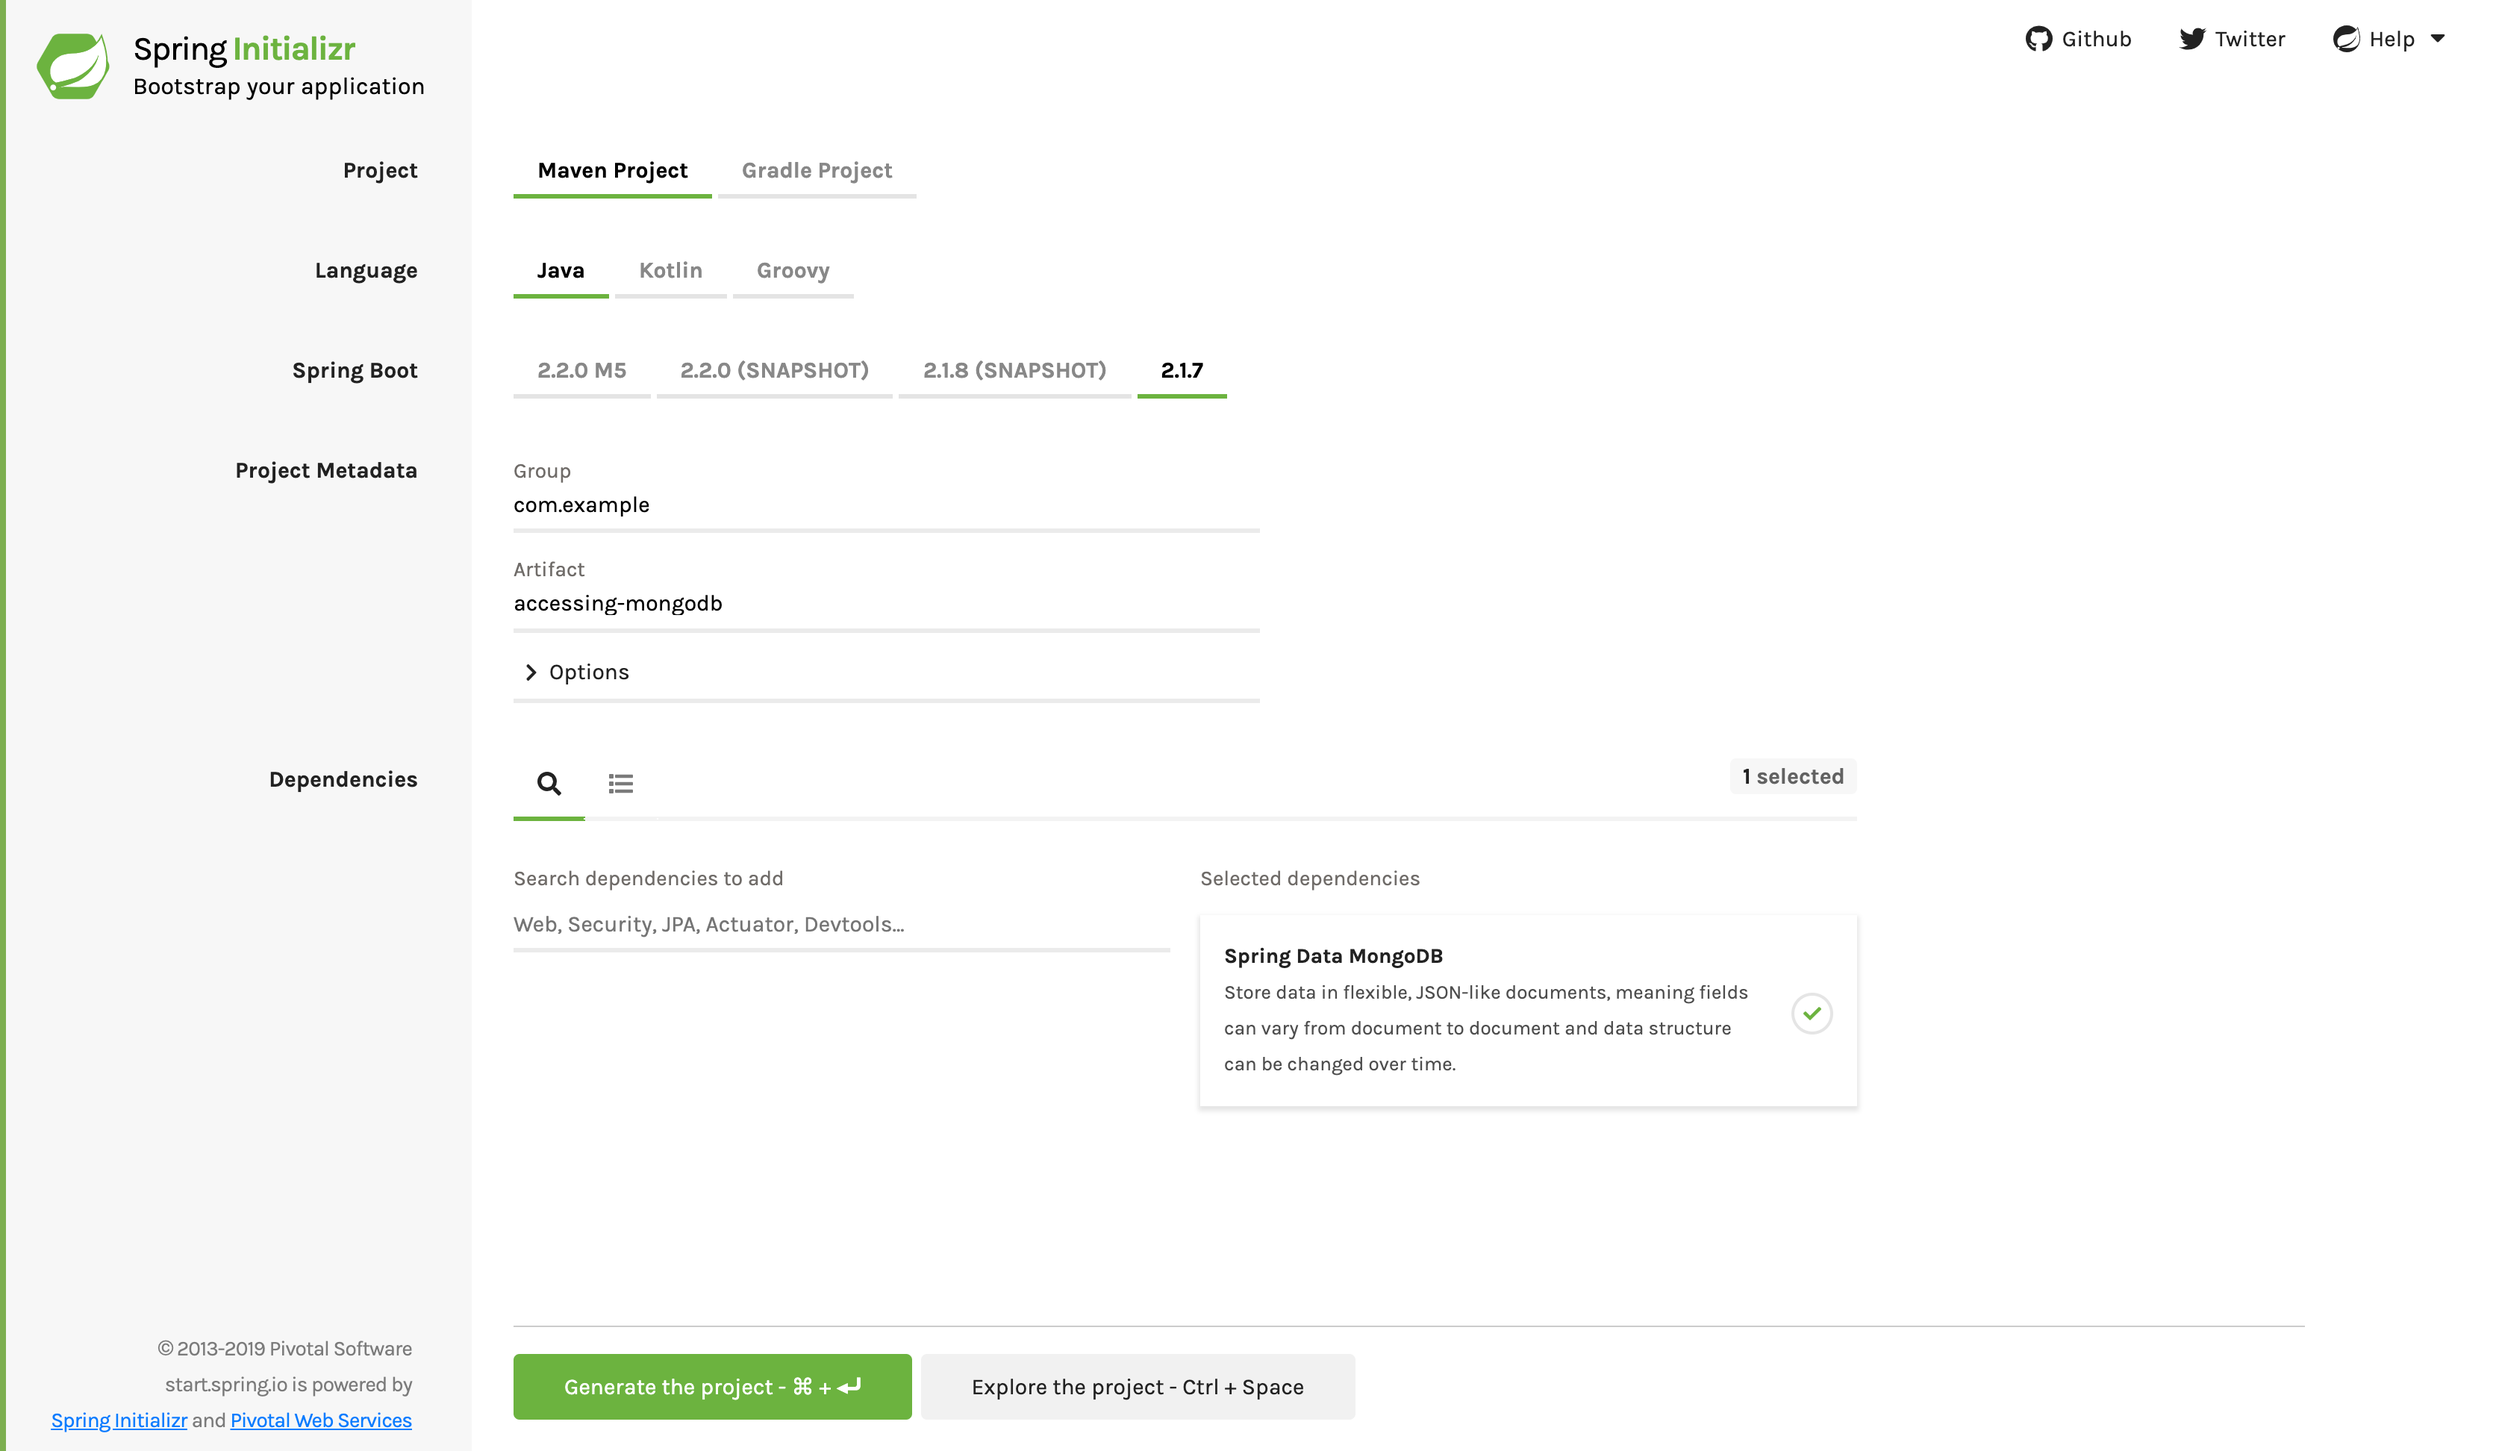
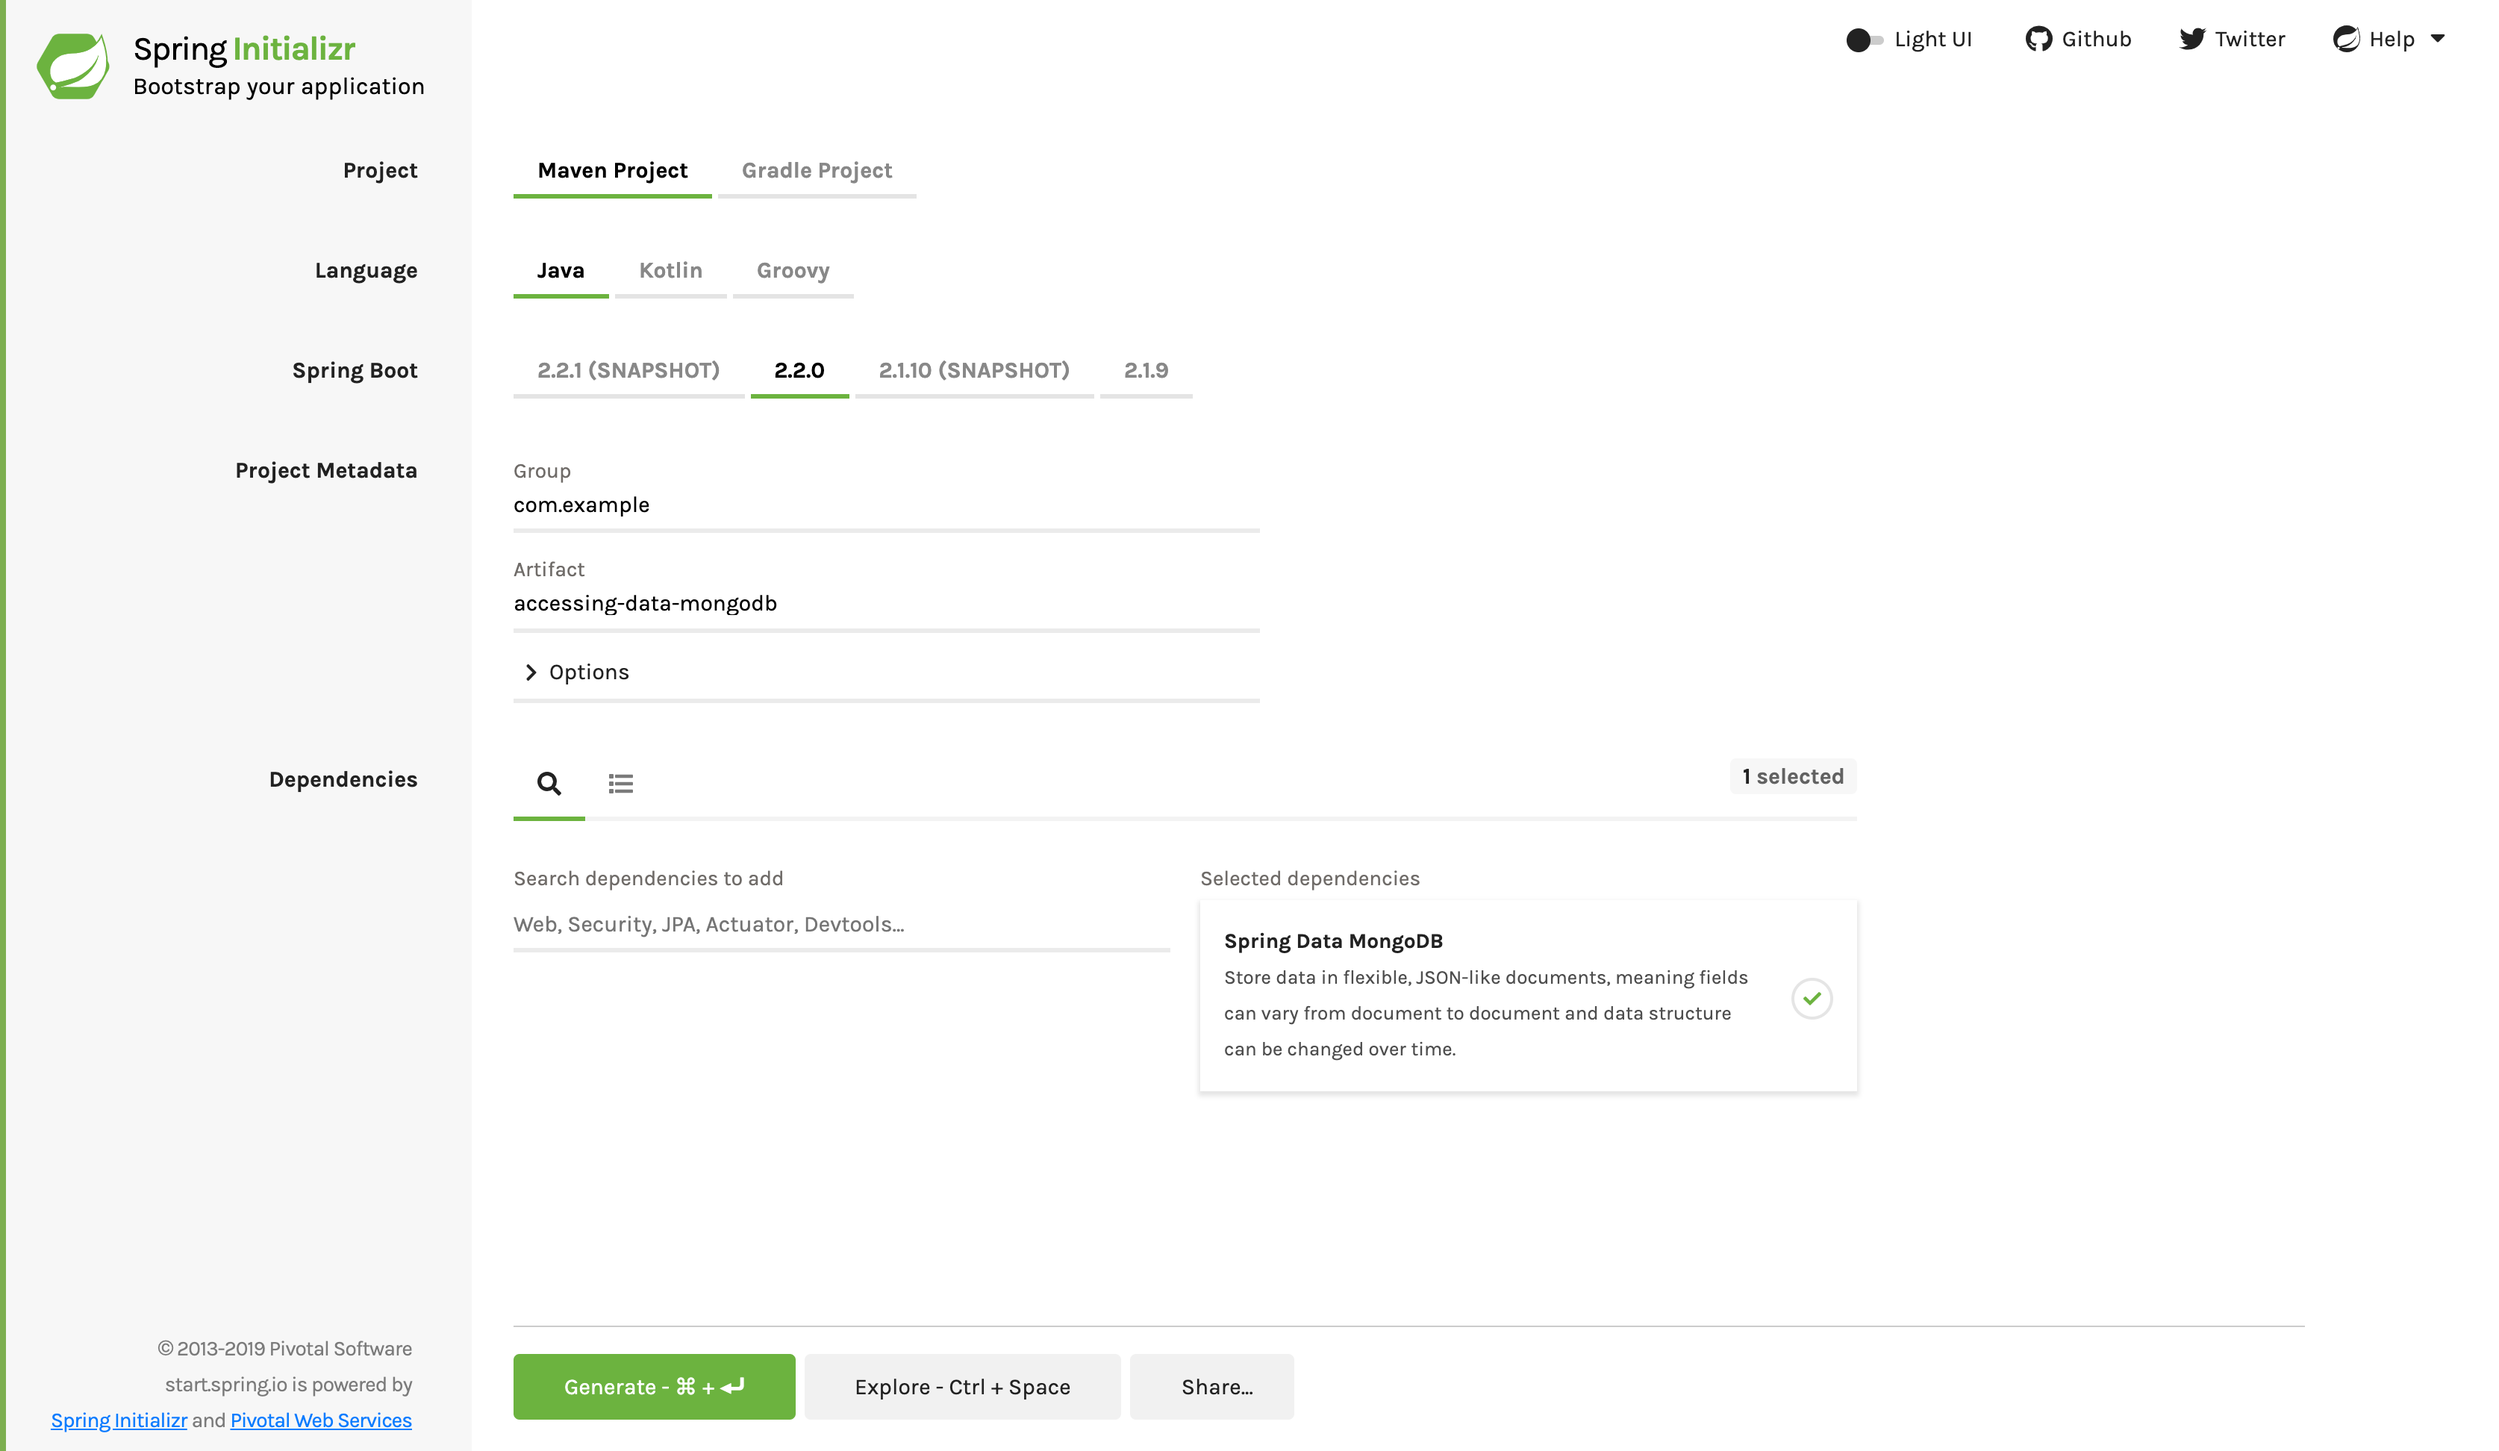
Upgrade to Spring Boot 2.2
I upgraded to Spring Boot 2.2, which necessitated upgrading to JUnit 5 and upgrading the Gradle wrapper.

diff --git a/complete/src/test/java/com/example/accessingdatamongodb/CustomerRepositoryTests.java b/complete/src/test/java/com/example/accessingdatamongodb/CustomerRepositoryTests.java
@@ -19,29 +19,29 @@ import static org.assertj.core.api.Assertions.*;
 
 import java.util.List;
 
-import org.junit.Before;
-import org.junit.Test;
-import org.junit.runner.RunWith;
+import org.junit.jupiter.api.BeforeAll;
+import org.junit.jupiter.api.Test;
+import org.junit.jupiter.api.extension.ExtendWith;
 
 import org.springframework.beans.factory.annotation.Autowired;
 import org.springframework.boot.test.context.SpringBootTest;
 import org.springframework.data.domain.Example;
-import org.springframework.test.context.junit4.SpringRunner;
+import org.springframework.test.context.junit.jupiter.SpringExtension;
 
 import com.example.accessingdatamongodb.Customer;
 import com.example.accessingdatamongodb.CustomerRepository;
 
-@RunWith(SpringRunner.class)
+@ExtendWith(SpringExtension.class)
 @SpringBootTest
 public class CustomerRepositoryTests {
 
 	@Autowired
-	CustomerRepository repository;
+	static CustomerRepository repository;
 
-	Customer dave, oliver, carter;
+	static Customer dave, oliver, carter;
 
-	@Before
-	public void setUp() {
+	@BeforeAll
+	public static void setUp() {
 
 		repository.deleteAll();
 
@@ -51,7 +51,7 @@ public class CustomerRepositoryTests {
 	}
 
 	@Test
-	public void setsIdOnSave() {
+	public static void setsIdOnSave() {
 
 		Customer dave = repository.save(new Customer("Dave", "Matthews"));
 
@@ -59,7 +59,7 @@ public class CustomerRepositoryTests {
 	}
 
 	@Test
-	public void findsByLastName() {
+	public static void findsByLastName() {
 
 		List<Customer> result = repository.findByLastName("Beauford");
 
@@ -67,7 +67,7 @@ public class CustomerRepositoryTests {
 	}
 
 	@Test
-	public void findsByExample() {
+	public static void findsByExample() {
 
 		Customer probe = new Customer(null, "Matthews");
 

diff --git a/initial/src/test/java/com/example/accessingdatamongodb/AccessingDataMongodbApplicationTests.java b/initial/src/test/java/com/example/accessingdatamongodb/AccessingDataMongodbApplicationTests.java
@@ -1,0 +1,13 @@
+package com.example.accessingdatamongodb;
+
+import org.junit.jupiter.api.Test;
+import org.springframework.boot.test.context.SpringBootTest;
+
+@SpringBootTest
+class AccessingDataMongodbApplicationTests {
+
+	@Test
+	void contextLoads() {
+	}
+
+}
